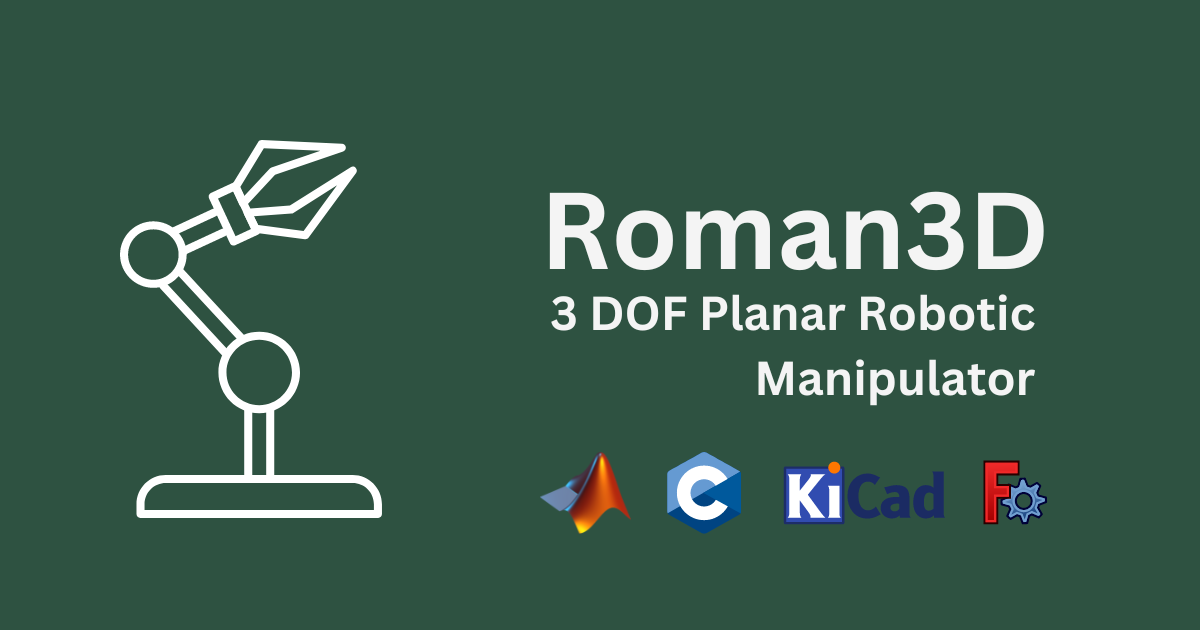
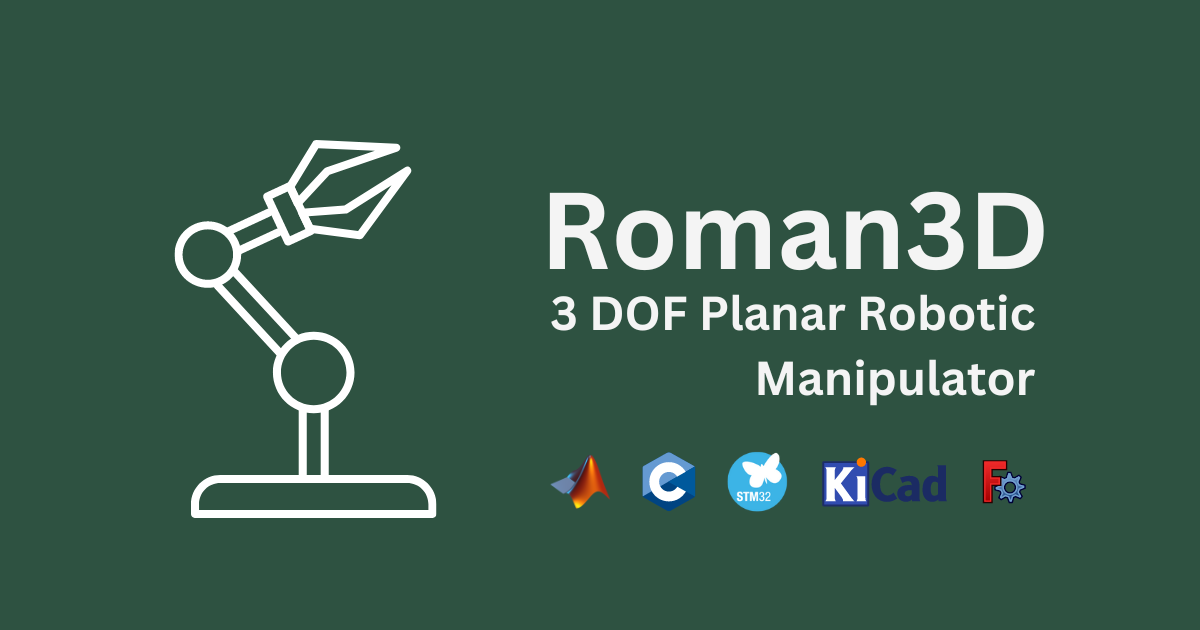
Roman 00 and 01 has been written

diff --git a/_posts/2024-08-22-roman-00.md b/_posts/2024-08-22-roman-00.md
@@ -1,27 +1,28 @@
 ---
 title: "Overview of the Project"
-date: 2024-08-22 13:00:00 +0300
+date: 2024-08-22 11:00:00 +0300
 categories: ["Roman3D: A Comprehensive Guide to Constructing a 3-DOF Planar Robotic Manipulator"]
-tags: [cad, embedded-code, circuit-design, matlab, simulink]  # Updated tags to match project components
+tags: [matlab, simulink, stm32, kicad, freecad]  # Updated tags to match project components
 math: true
 image: assets/img/roman.png
 ---
 
-## Overview
+This series of posts details the essential components required for constructing and operating a 3-DOF planar direct-drive robotic manipulator. The project encompasses:
 
-This repository contains all the necessary components for constructing and operating a 3-DOF planar direct drive robotic manipulator. The project includes:
+- **Control Unit**: A MATLAB project template for implementing and simulating control algorithms.
+- **Embedded Code**: Software running on the data acquisition card.
+- **Circuit Design**: The schematic and layout of the data acquisition card.
+- **CAD Model**: A comprehensive model of the robotic design.
 
-- **A CAD model** of the robot design
-- **Embedded code** running on the data acquisition card
-- **Circuit design** of the data acquisition card
-- **A MATLAB project template** for implementing and simulating control algorithms
+The complete project repository is available on **GitHub**: [Roman3D Project Repo](https://github.com/sametgul/roman3d.git)
 
-The schematic of this experimental setup is shown in the figure below. The control algorithms are implemented in MATLAB/Simulink, referred to as the Control Unit in the diagram. The custom Data Acquisition Device gathers encoder signals from the robot and sends them to the Control Unit. It also receives control signals from the Control Unit and transforms them into voltages, which are then amplified before being sent to the robot. The experiments run in real-time with a sampling rate of up to 10 kHz.
+Figure 1 illustrates the schematic of the experimental setup. The control algorithms, referred to as the `Control Unit`, are implemented in MATLAB/Simulink. The custom `Data Acquisition Device` collects encoder signals from the robot and transmits them to the `Control Unit`. It also converts control signals from the `Control Unit` into voltages, which are then amplified by the `Amplificator` before being sent to the `3-DOF Robotic Manipulator`. These experiments are conducted in real-time with a sampling rate of up to 10 kHz.
 
-### Experimental Setup Schematic
-
-![Experimental Setup Schematic](assets/img/roman.png)
+![Experimental Setup Schematic](assets/img/roman_img/setup.png)  
+_Figure 1: Experimental Setup Schematic_
 
 ## Documentation
 
-For detailed documentation on each component, refer to the following:
+For detailed documentation on each component, please refer to the following sections:
+
+- [Control Unit Implementation](../roman-01)

diff --git a/_posts/2024-08-26-roman-01.md b/_posts/2024-08-26-roman-01.md
@@ -1,0 +1,71 @@
+---
+title: "Control Unit Implementation"
+date: 2024-08-26 11:00:00 +0300
+categories: ["Roman3D: A Comprehensive Guide to Constructing a 3-DOF Planar Robotic Manipulator"]
+tags: [matlab, simulink]  # Updated tags to match project components
+math: true
+image: assets/img/roman.png
+---
+
+In this project, the control algorithms are executed in Simulink, with the data acquisition device interfacing with MATLAB through a serial COM port. Real-time communication is facilitated by the Real-Time Desktop package for MATLAB. To test new control algorithms, simply replace the controller block in the provided template.
+
+The complete project repository is available on **GitHub**: [Roman3D Project Repo](https://github.com/sametgul/roman3d.git)
+
+![template](../assets/img/roman_img/code_gen.png)
+
+## Real-Time Desktop Kernel Setup
+
+Install the Real-Time Desktop Kernel on the host computer by executing the following command in the MATLAB command window:
+ ```
+ sldrtkernel -install
+ ```
+To verify the installation, use the command:
+```
+rtwho
+```
+Example output:
+
+![rtwho command output](../assets/img/roman_img/rtwho.png)
+
+## Simulink configuration
+After creating a Simulink project, configure it for the real-time kernel by following these steps:
+
+1. Go to Model settings.
+2. Navigate to Code Generation.
+3. Set the System target file to `sldrt.tlc`.
+
+![code generation](../assets/img/roman_img/code_gen.png)
+
+After this configuration, a new tab named ***Desktop Real-Time*** will appear in Simulink. Start simulations from this tab using the ***Run In Real Time*** button:
+
+![run button](../assets/img/roman_img/run_real.png)
+
+## Encoder Input Configuration
+
+To communicate with the device, add a ***Packet Input*** block from the ***Simulink Desktop Real-Time Library***:
+
+![packet input](../assets/img/roman_img/pac_in.png)
+
+Install a new serial port board as shown:
+
+![input config](../assets/img/roman_img/in_config.png) 
+
+![input config 2](../assets/img/roman_img/in_config2.png) 
+
+Select the serial port according to the device manager:
+
+![Device manager](../assets/img/roman_img/dev_man.png) 
+
+Configure the device to send encoder input in 16-bit integer format at ***Block output data types***:
+
+![input config 3](../assets/img/roman_img/in_config3.png) 
+
+Now, convert the encoder input to radians. First, convert int16 to double using a convert block:
+
+![input block](../assets/img/roman_img/input.png) 
+
+## DAC Output Configurations
+
+To send DAC values to the device, use the ***Packet Output*** block from the ***Simulink Desktop Real-Time*** library. Calculate the real DAC value by converting +/- 10V to a 0-4096 range in MATLAB. Also, include a ***Rate Transition*** block before outputting DAC values:
+
+![output block](../assets/img/roman_img/out_block.png) 
